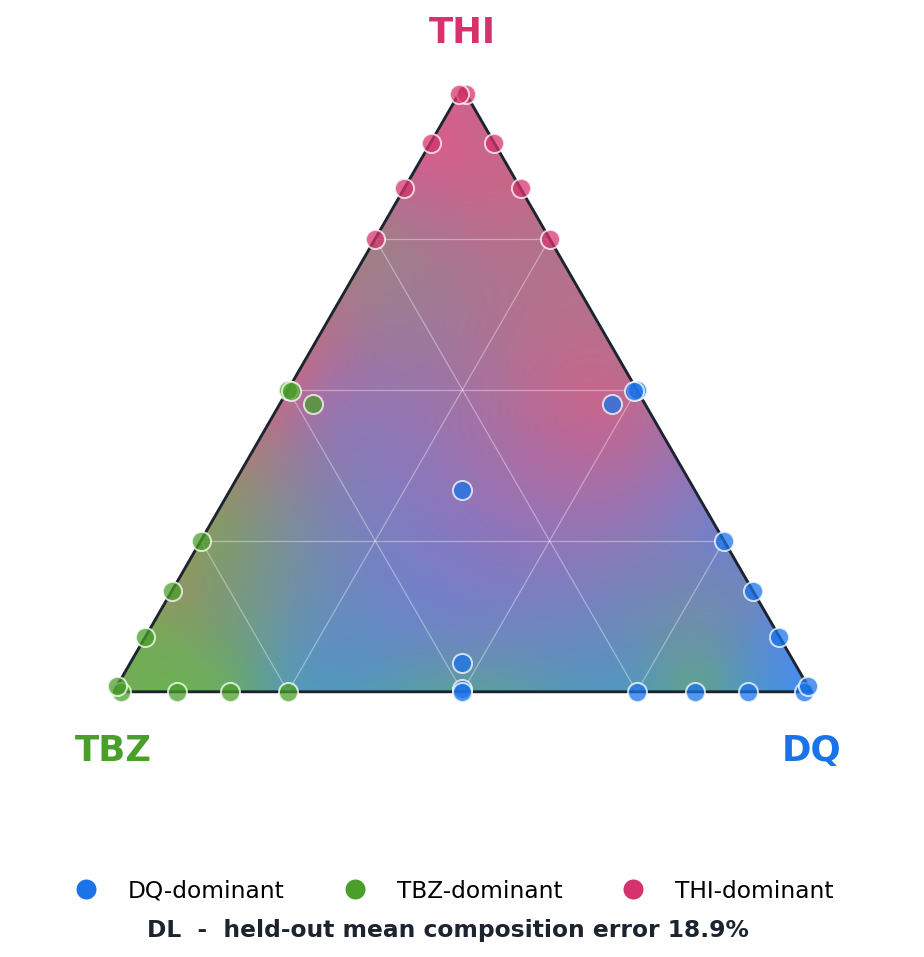
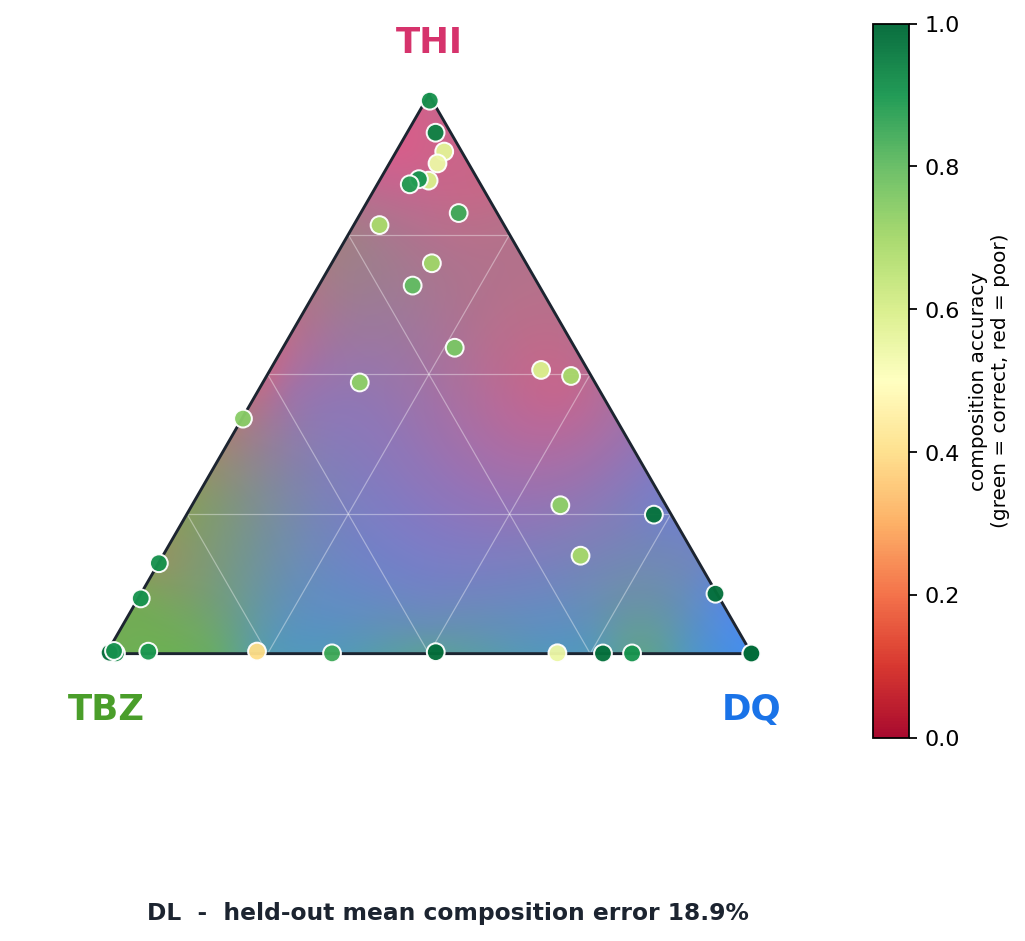
improve triangle prediction comparison

diff --git a/experiments/benchmarks/triangle_response_surface.py b/experiments/benchmarks/triangle_response_surface.py
@@ -80,12 +80,14 @@ def draw(method, pred, filename):
     ax.plot([TOP[0], BL[0], BR[0], TOP[0]], [TOP[1], BL[1], BR[1], TOP[1]],
             color="#1c2430", lw=1.3, zorder=3)
 
-    # Identical nominal sample positions in both figures; point colour gives true group.
-    nominal_xy = bary(Y)
-    for g in range(3):
-        pts = nominal_xy[TRUE_DOM == g]
-        ax.scatter(pts[:, 0], pts[:, 1], s=74, color=GROUP_HEX[g], alpha=0.74,
-                   edgecolors="white", linewidths=0.9, zorder=4)
+    # Marker position = prediction; marker colour = closeness to the true composition.
+    predicted_xy = bary(pred)
+    accuracy = np.clip(1.0 - 0.5 * np.abs(pred - Y).sum(axis=1), 0.0, 1.0)
+    sc = ax.scatter(predicted_xy[:, 0], predicted_xy[:, 1], s=64, c=accuracy,
+                    cmap="RdYlGn", vmin=0.0, vmax=1.0, edgecolors="white",
+                    linewidths=0.9, alpha=0.96, zorder=4)
+    cb = fig.colorbar(sc, ax=ax, fraction=0.040, pad=0.035)
+    cb.set_label("composition accuracy\n(green = correct, red = poor)", fontsize=9)
     for frac, text, dy, colour in (([0, 0, 1], "THI", 0.055, GROUP_HEX[2]),
                                    ([0, 1, 0], "TBZ", -0.060, GROUP_HEX[1]),
                                    ([1, 0, 0], "DQ", -0.060, GROUP_HEX[0])):
@@ -99,10 +101,6 @@ def draw(method, pred, filename):
     areas = np.bincount(dominant, minlength=3) / len(dominant)
     ax.set_aspect("equal"); ax.axis("off")
     ax.set_xlim(-0.14, 1.14); ax.set_ylim(-0.12, H + 0.10)
-    handles = [Line2D([], [], marker="o", mfc=GROUP_HEX[g], mec="white", ls="",
-                      ms=10, label=GROUP_NAME[g]) for g in range(3)]
-    fig.legend(handles=handles, loc="lower center", ncol=3, fontsize=10.5,
-               framealpha=0, bbox_to_anchor=(0.5, 0.018))
     fig.text(0.5, 0.002, f"{method}  -  held-out mean composition error {err:.1%}",
              ha="center", va="bottom", fontsize=10.5, fontweight="bold", color="#1c2430")
     fig.savefig(os.path.join(OUT, filename), dpi=160, facecolor="white",
@@ -111,8 +109,58 @@ def draw(method, pred, filename):
     return err, areas
 
 
+def draw_triptych(filename="triangle_response_comparison.png"):
+    """Actual ideal RGB, NNLS distortion, and DL recovery in one comparable figure."""
+    gx, gy, xx, yy, inside, nominal = simplex_grid()
+    panels = [("Actual composition", nominal, None, Y),
+              ("NNLS", response_surface(normalize(P_NNLS), nominal, inside), P_NNLS, P_NNLS),
+              ("DL", response_surface(normalize(P_DL), nominal, inside), P_DL, P_DL)]
+    fig, axes = plt.subplots(1, 3, figsize=(15.2, 5.4))
+    for ax, (title, surface, pred, points) in zip(axes, panels):
+        rgb = 0.86 * (surface @ GROUP_RGB) + 0.14
+        image = np.dstack([rgb, np.where(inside, 0.94, 0.0)])
+        ax.imshow(image, extent=[gx[0], gx[-1], gy[0], gy[-1]], origin="lower",
+                  interpolation="bilinear", zorder=0)
+        for t in (0.25, 0.5, 0.75):
+            for p, q, r in ((BR, TOP, BL), (TOP, BR, BL), (BL, BR, TOP)):
+                ax.plot([p[0] + t * (q[0] - p[0]), p[0] + t * (r[0] - p[0])],
+                        [p[1] + t * (q[1] - p[1]), p[1] + t * (r[1] - p[1])],
+                        color="white", lw=0.45, alpha=0.30, zorder=1)
+        ax.plot([TOP[0], BL[0], BR[0], TOP[0]], [TOP[1], BL[1], BR[1], TOP[1]],
+                color="#1c2430", lw=1.2, zorder=3)
+        point_xy = bary(points)
+        if pred is None:
+            ax.scatter(point_xy[:, 0], point_xy[:, 1], s=40, facecolors="white",
+                       edgecolors="#344054", linewidths=0.75, alpha=0.94, zorder=4)
+        else:
+            accuracy = np.clip(1.0 - 0.5 * np.abs(normalize(pred) - Y).sum(1), 0.0, 1.0)
+            ax.scatter(point_xy[:, 0], point_xy[:, 1], s=44, c=accuracy, cmap="RdYlGn",
+                       vmin=0.0, vmax=1.0, edgecolors="white", linewidths=0.75,
+                       alpha=0.96, zorder=4)
+        for frac, text, dy, colour in (([0, 0, 1], "THI", 0.045, GROUP_HEX[2]),
+                                       ([0, 1, 0], "TBZ", -0.052, GROUP_HEX[1]),
+                                       ([1, 0, 0], "DQ", -0.052, GROUP_HEX[0])):
+            p = bary(frac); ax.text(p[0], p[1] + dy, text, ha="center",
+                va="bottom" if text == "THI" else "top", fontsize=12,
+                fontweight="bold", color=colour)
+        subtitle = "ideal RGB reference" if pred is None else \
+            f"held-out error {np.mean(0.5 * np.abs(normalize(pred) - Y).sum(1)):.1%}"
+        ax.set_title(title + "\n" + subtitle, fontsize=13, fontweight="bold", color="#1c2430")
+        ax.set_aspect("equal"); ax.axis("off")
+        ax.set_xlim(-0.10, 1.10); ax.set_ylim(-0.09, H + 0.08)
+    fig.legend([Line2D([], [], marker="o", mfc="white", mec="#344054", ls="", ms=7)],
+               ["control: actual mixture composition"], loc="lower center", framealpha=0,
+               bbox_to_anchor=(0.45, 0.01), fontsize=10.5)
+    sm = plt.cm.ScalarMappable(norm=plt.Normalize(0.0, 1.0), cmap="RdYlGn")
+    cb = fig.colorbar(sm, ax=axes, fraction=0.018, pad=0.018, shrink=0.82)
+    cb.set_label("composition accuracy\n(green = correct, red = poor)", fontsize=10)
+    cb.set_ticks([0.0, 0.25, 0.5, 0.75, 1.0])
+    fig.subplots_adjust(left=0.02, right=0.91, top=0.88, bottom=0.12, wspace=0.08)
+    fig.savefig(os.path.join(OUT, filename), dpi=180, facecolor="white", bbox_inches="tight")
+    plt.close(fig)
 if __name__ == "__main__":
     e1, a1 = draw("NNLS", P_NNLS, "triangle_response_nnls.png")
     e2, a2 = draw("DL", P_DL, "triangle_response_dl.png")
+    draw_triptych()
     print(f"NNLS error {e1:.1%}, dominant areas DQ/TBZ/THI {a1.round(3)}")
     print(f"DL error {e2:.1%}, dominant areas DQ/TBZ/THI {a2.round(3)}")
